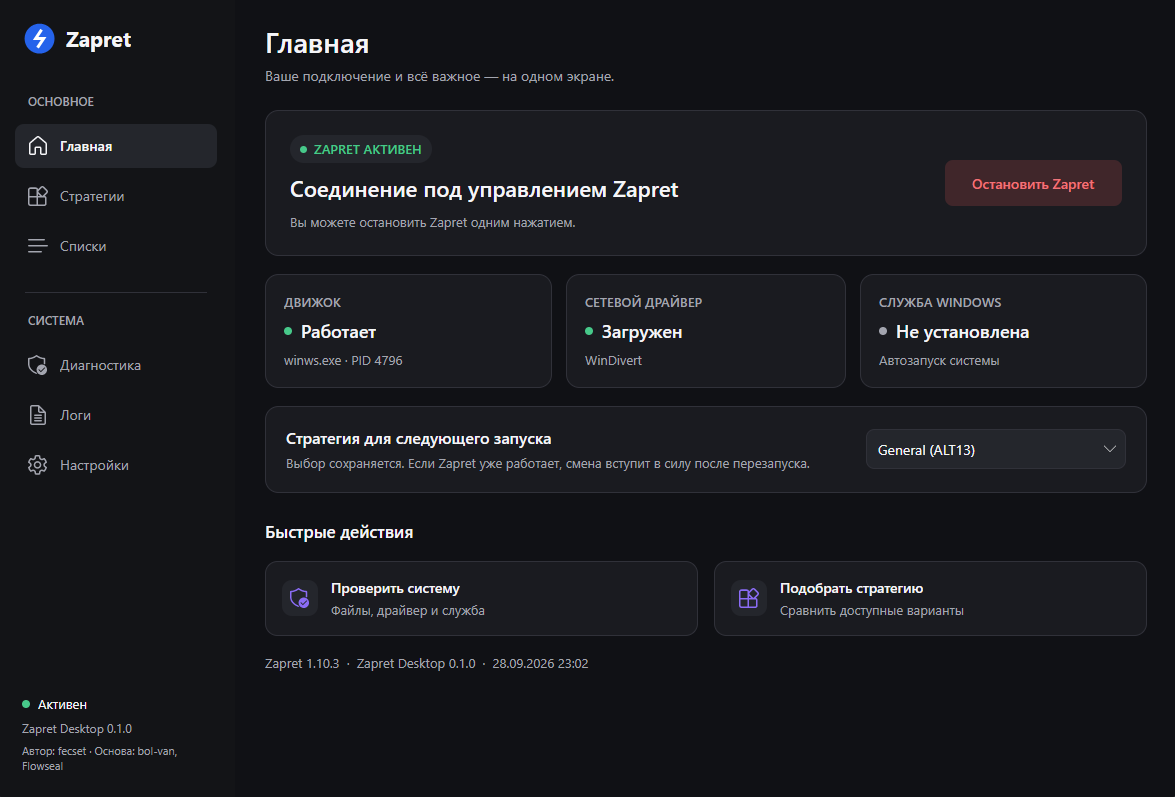
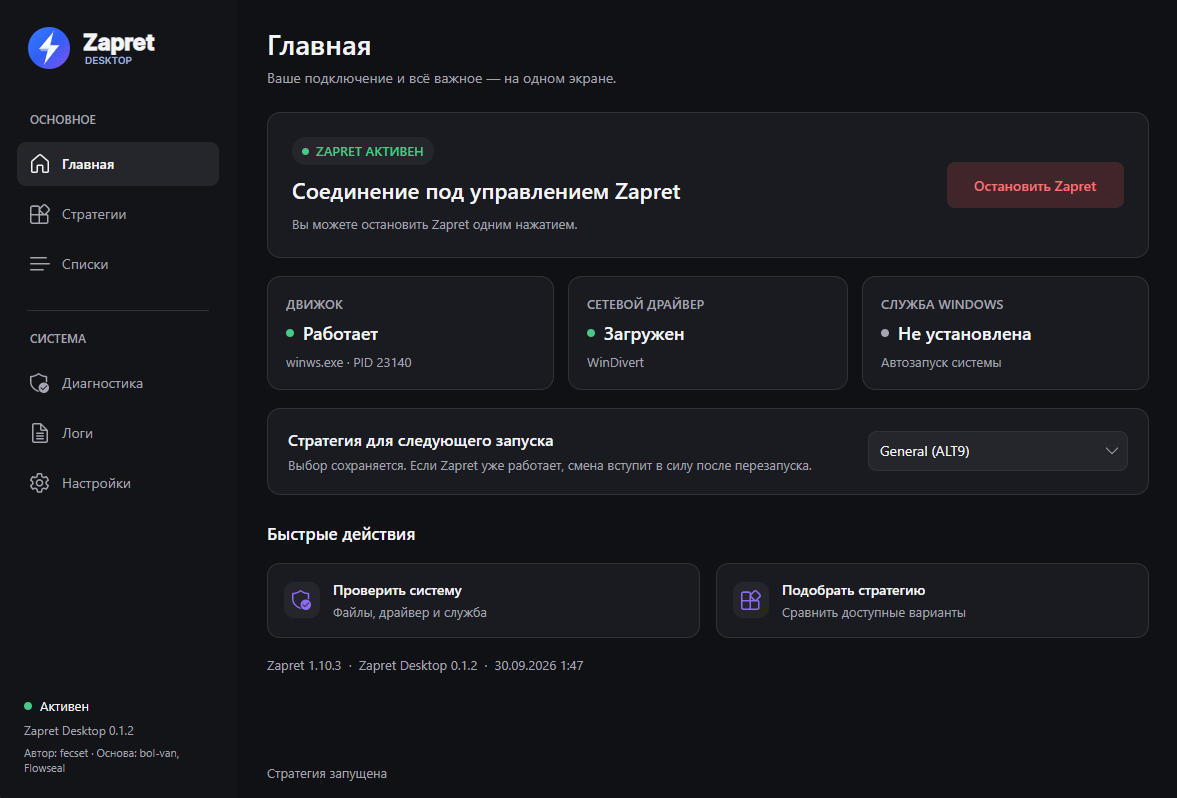
Keep legal notices embedded and release folder clean

diff --git a/src/Zapret.Desktop/ManagementViews.cs b/src/Zapret.Desktop/ManagementViews.cs
@@ -294,7 +294,37 @@ public sealed partial class MainWindow
         stack.Children.Add(Text("bol-van — автор zapret: github.com/bol-van/zapret", 14));
         stack.Children.Add(Text("Flowseal — автор Windows-сборки zapret-discord-youtube: github.com/Flowseal/zapret-discord-youtube", 14));
         stack.Children.Add(Text("fecset — автор Zapret Desktop: github.com/fecset/zapret-desktop", 14));
+        stack.Children.Add(Button("Лицензии и уведомления", () =>
+        {
+            ShowLegalNotices();
+            return Task.CompletedTask;
+        }));
         page.Children.Add(Panel(stack));
+    }
+
+    private void ShowLegalNotices()
+    {
+        var viewer = new Window
+        {
+            Title = "Лицензии и уведомления",
+            Width = 820,
+            Height = 650,
+            MinWidth = 500,
+            MinHeight = 350,
+            Background = CanvasBrush,
+            Content = new TextBox
+            {
+                Text = LegalNotices.ReadAll(),
+                IsReadOnly = true,
+                AcceptsReturn = true,
+                TextWrapping = TextWrapping.Wrap,
+                Margin = new Thickness(16),
+                Padding = new Thickness(16),
+                Background = SurfaceBrush,
+                Foreground = TextBrush
+            }
+        };
+        viewer.Show(this);
     }
     private TextBox Input(string hint, double width) => new()
     {

diff --git a/src/Zapret.Desktop/LegalNotices.cs b/src/Zapret.Desktop/LegalNotices.cs
@@ -1,0 +1,34 @@
+using System.Text;
+
+namespace Zapret.Desktop;
+
+internal static class LegalNotices
+{
+    private static readonly (string Title, string Resource)[] Documents =
+    [
+        ("Zapret Desktop — MIT", "Legal.ZapretDesktop.LICENSE"),
+        ("Сторонние компоненты", "Legal.THIRD_PARTY_NOTICES.md"),
+        ("zapret — лицензия и авторы", "Legal.Zapret.LICENSE.txt"),
+        ("Avalonia — MIT", "Legal.Avalonia-LICENSE.md"),
+        (".NET Runtime — MIT", "Legal.DotNet-LICENSE.txt"),
+        ("Fluent UI System Icons — MIT", "Legal.FluentIcons-LICENSE.txt"),
+        ("Inter — SIL OFL 1.1", "Legal.Inter-OFL.txt"),
+        ("WinDivert — LGPLv3 / GPLv2", "Legal.WinDivert-LICENSE.txt")
+    ];
+
+    public static string ReadAll()
+    {
+        var assembly = typeof(LegalNotices).Assembly;
+        var text = new StringBuilder();
+        foreach (var (title, resource) in Documents)
+        {
+            using var stream = assembly.GetManifestResourceStream(resource)
+                ?? throw new InvalidOperationException($"Не найден встроенный текст лицензии: {resource}");
+            using var reader = new StreamReader(stream);
+            if (text.Length > 0) text.AppendLine().AppendLine();
+            text.AppendLine(title).AppendLine(new string('═', 64));
+            text.Append(reader.ReadToEnd());
+        }
+        return text.ToString();
+    }
+}

diff --git a/THIRD_PARTY_NOTICES.md b/THIRD_PARTY_NOTICES.md
@@ -12,4 +12,4 @@
 | Inter | [The Inter Project Authors](https://github.com/rsms/inter) | SIL Open Font License 1.1; [копия лицензии](licenses/Inter-OFL.txt). |
 | .NET Runtime | [Microsoft и участники .NET](https://github.com/dotnet/runtime) | MIT; [копия лицензии](licenses/DotNet-LICENSE.txt). |
 
-В архиве выпуска тексты лицензий находятся в папке `zapret/`: `LICENSE` для Zapret Desktop, `LICENSE.txt` для zapret, а также `licenses/` и этот файл. Для WinDivert проверяйте условия распространения бинарной версии и доступность соответствующих исходников. Лицензии остальных пакетов NuGet указаны в их метаданных и репозиториях.
+В выпуске тексты лицензий встроены в `Zapret.Desktop.exe` и доступны через «Настройки» → «Лицензии и уведомления». В исходном коде сохранены отдельные файлы с текстами. Для WinDivert проверяйте условия распространения бинарной версии и доступность соответствующих исходников. Лицензии остальных пакетов NuGet указаны в их метаданных и репозиториях.

diff --git a/README.md b/README.md
@@ -59,7 +59,7 @@ dotnet test ZapretDesktop.slnx -c Release
 
 Для локального запуска используйте `dotnet run --project src/Zapret.Desktop/Zapret.Desktop.csproj`. Устройство решения кратко описано в [ARCHITECTURE.md](ARCHITECTURE.md).
 
-Для релизной сборки выполните `dotnet publish src/Zapret.Desktop/Zapret.Desktop.csproj -p:PublishProfile=WinX64 -o dist/ZapretDesktop-win-x64`. Профиль объединяет .NET и Avalonia в `Zapret.Desktop.exe`; рядом остаётся только папка `zapret` с движком, стратегиями и лицензионными уведомлениями.
+Для релизной сборки выполните `dotnet publish src/Zapret.Desktop/Zapret.Desktop.csproj -p:PublishProfile=WinX64 -o dist/ZapretDesktop-win-x64`. Профиль объединяет .NET и Avalonia в `Zapret.Desktop.exe`; рядом остаётся только папка `zapret` с необходимыми файлами движка и стратегиями. Лицензии и уведомления встроены в EXE и доступны в настройках приложения.
 
 ## ⚖ Лицензирование
 
